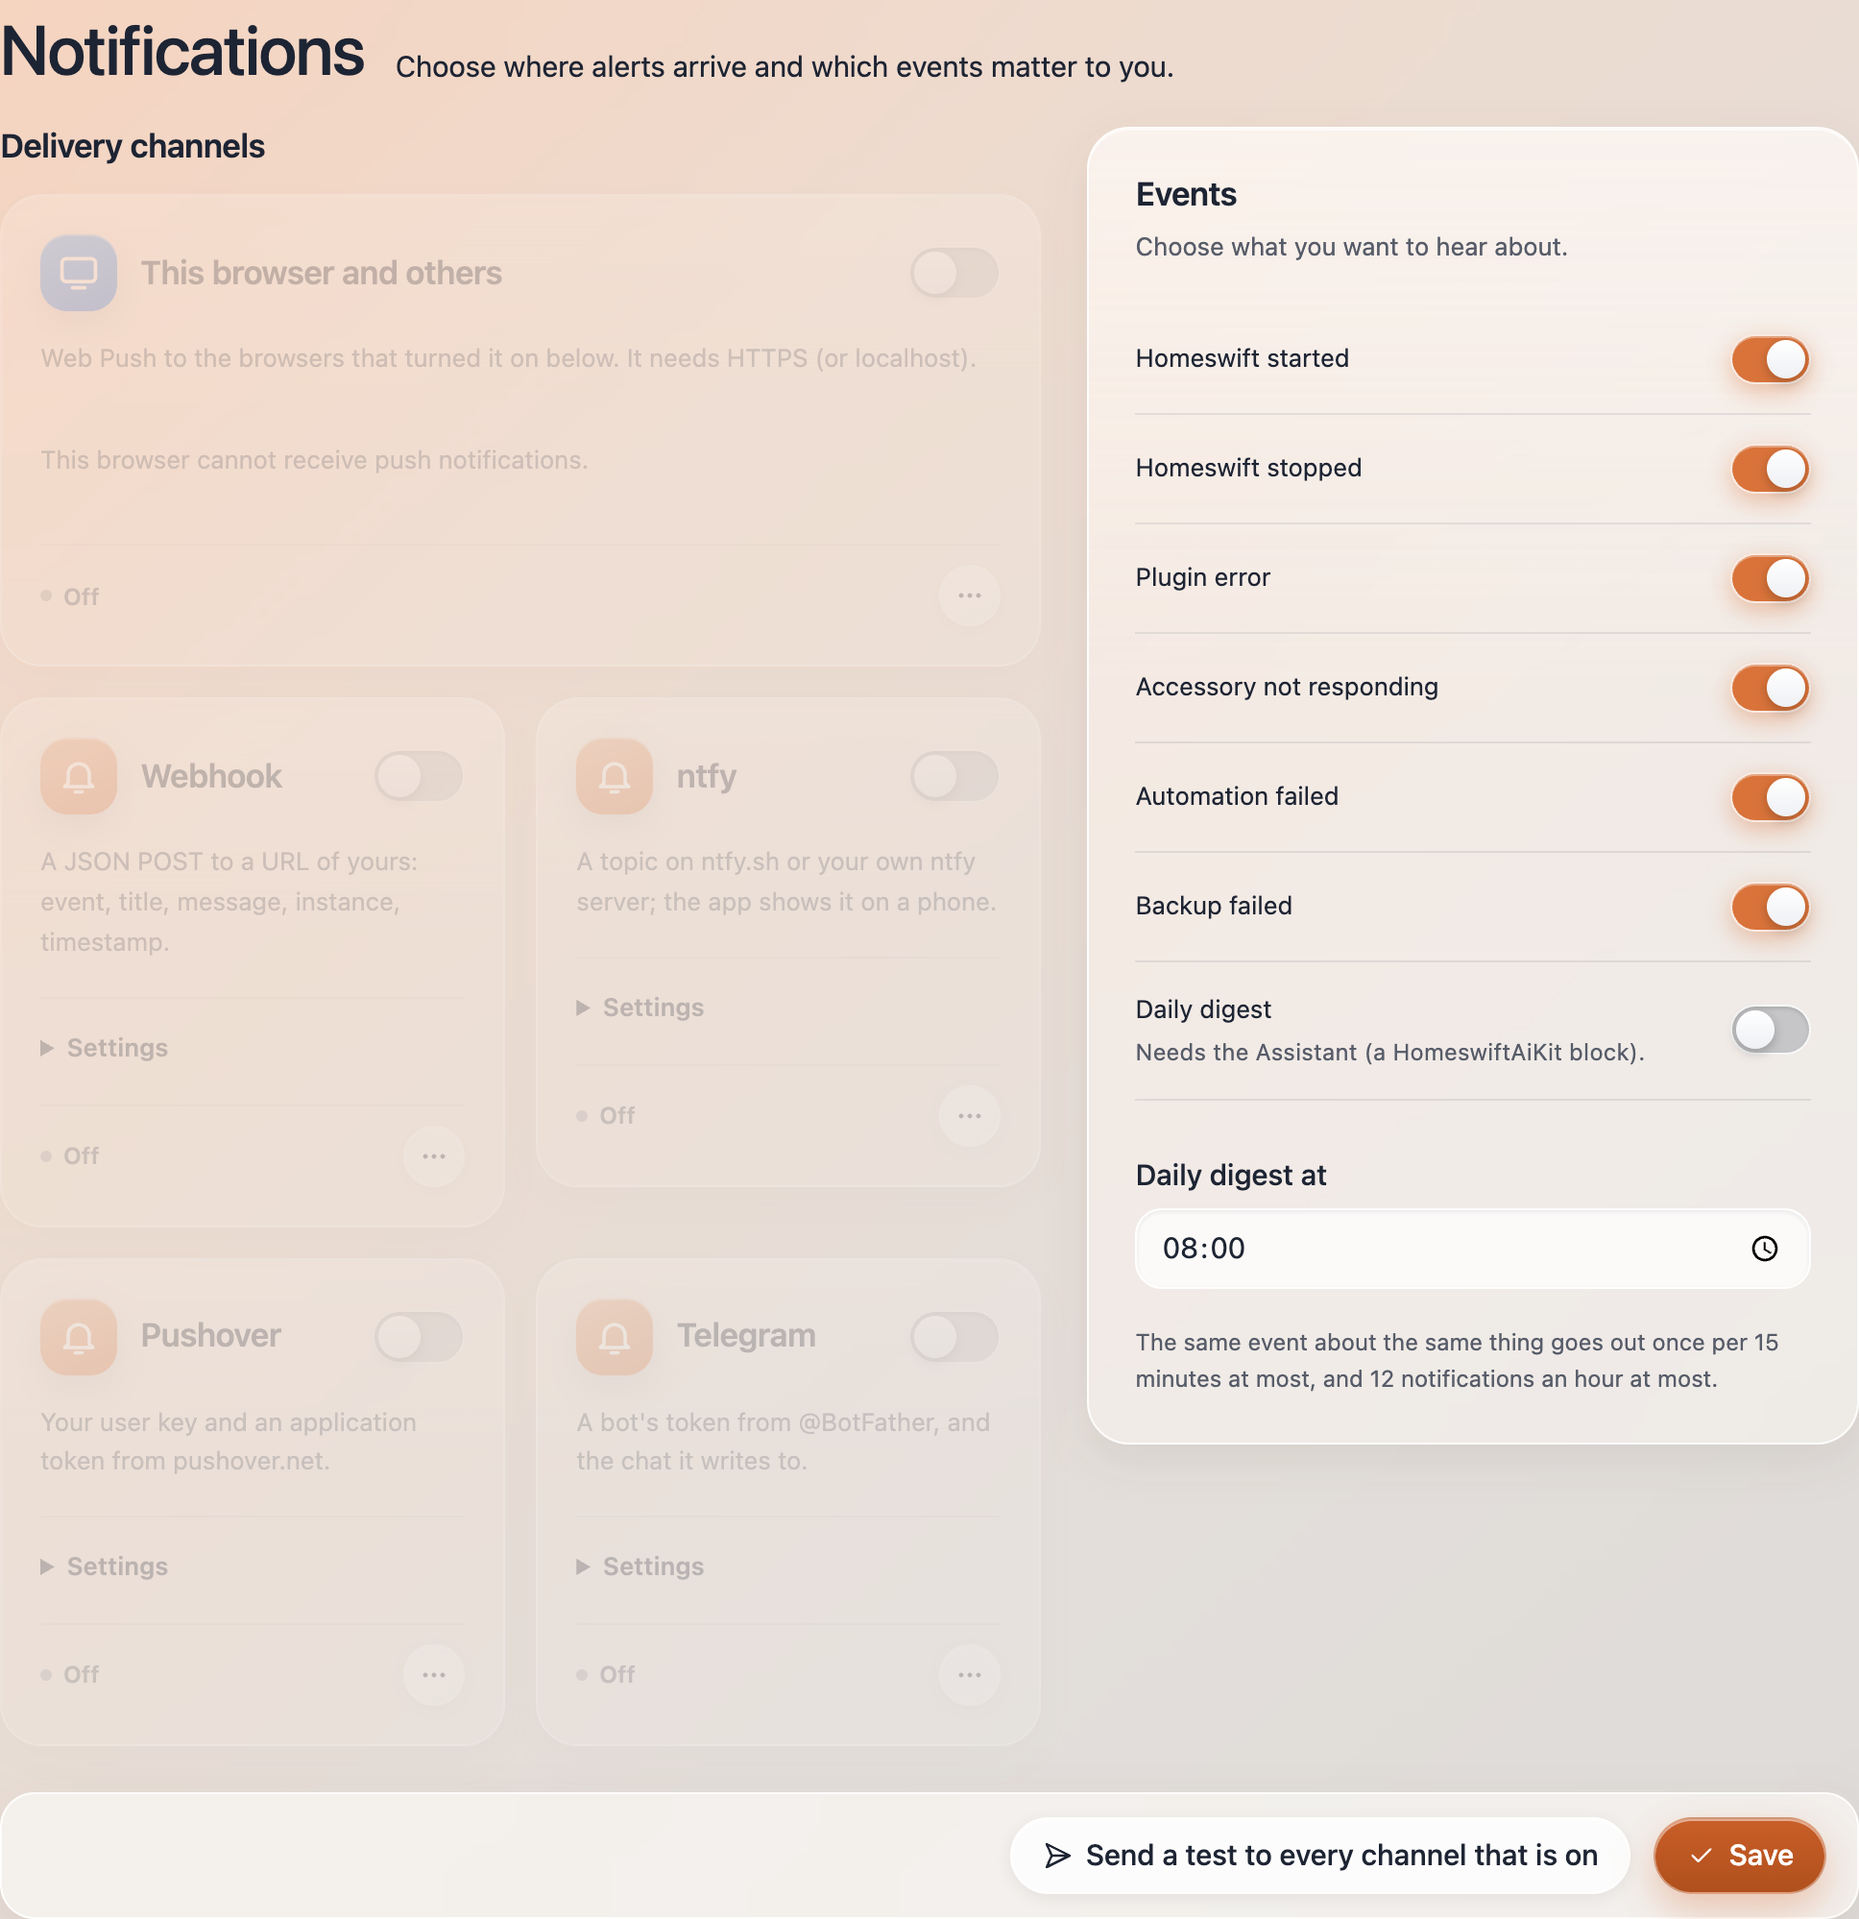
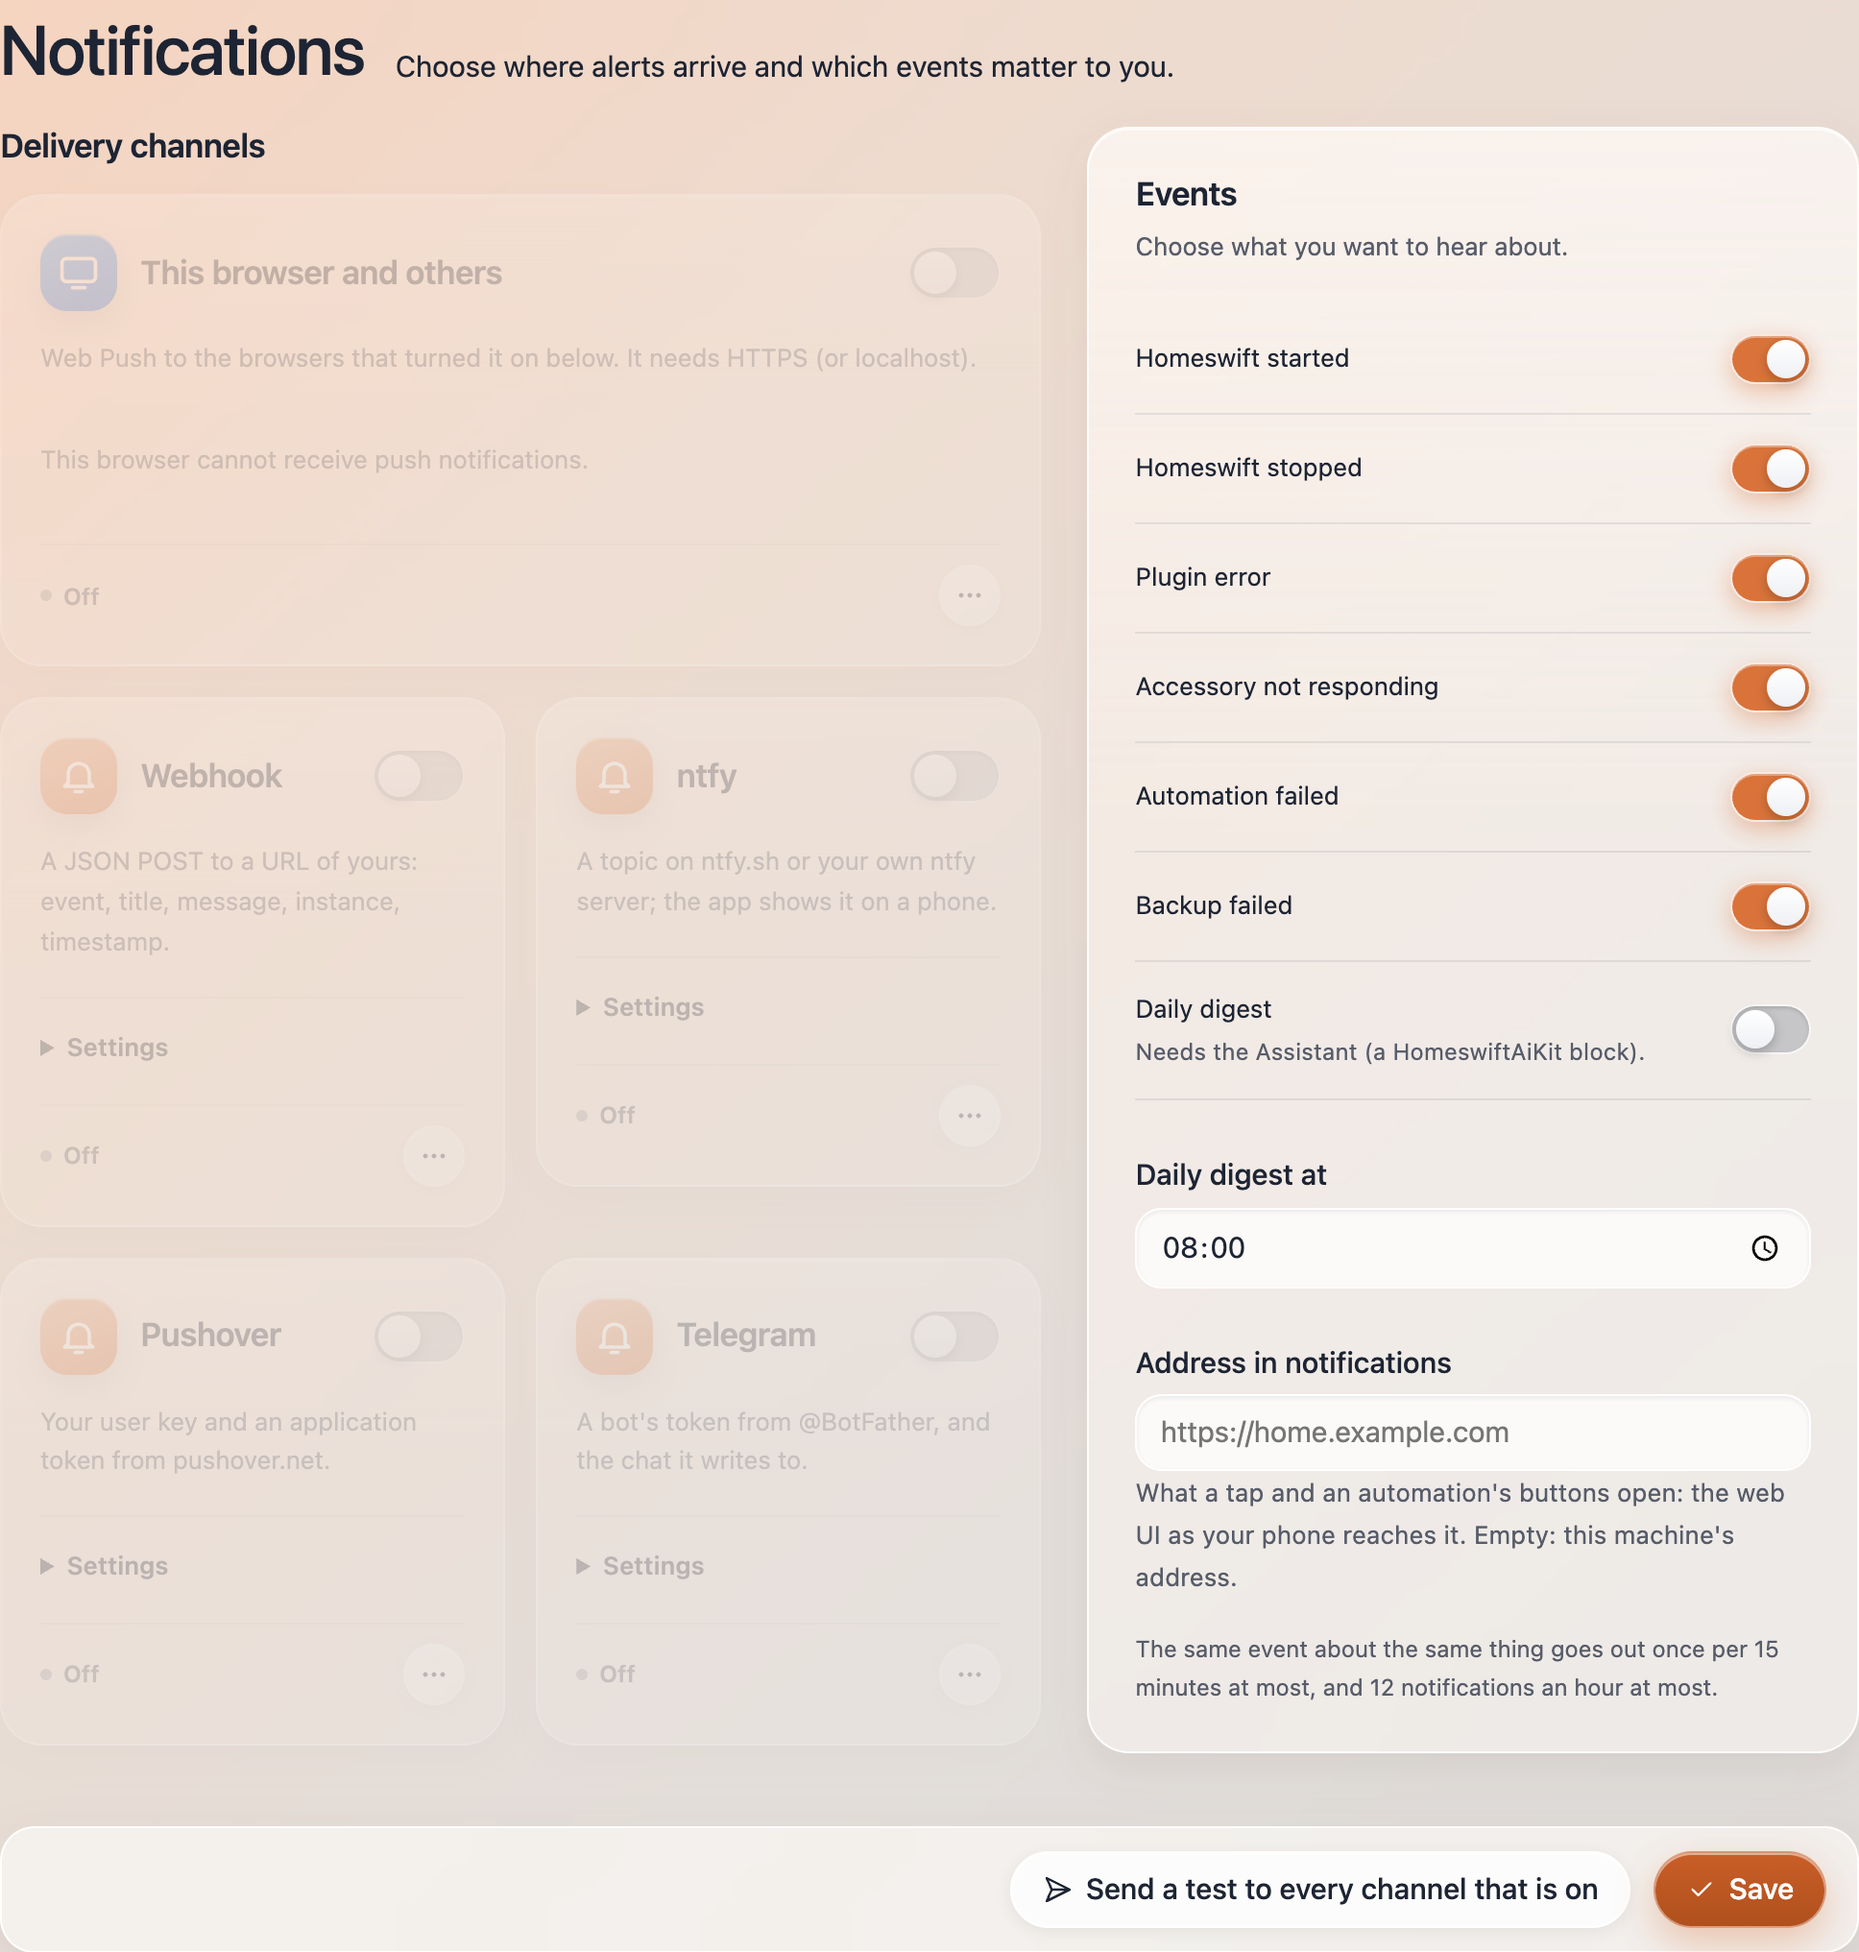
docs(notifications): buttons, taps and the address, with the editor's and the Notifications page's screenshots

diff --git a/docs/ui.md b/docs/ui.md
@@ -474,6 +474,26 @@ switches and a **Send a test**, under a Save bar.
   uses the provider's quota). Glass UI's update and rollback events have no counterpart here: plugins are compiled in.
 - **Limits**: the same event about the same thing goes once per 15 minutes, 12 notifications an hour at most, 5 tests
   a minute.
+- **A tap** opens the page a notification is about (the Logs for a plugin's error, the Status page, an automation),
+  on ntfy (`Click`), Pushover (its link), Web Push and a webhook (`url`). **Address in notifications** is the web UI's
+  address those links use, when the one it starts on (this machine's address on the network) is not the one your phone
+  reaches, such as a reverse proxy's or a tunnel's.
+- **Buttons**: an [Automation](#automations)'s **Notify** Step carries up to three, each applying a Scene, setting a
+  value or opening a page. Each button has a single-use token valid 15 minutes, and the notification a confirmation page
+  (`/notify/<id>`, behind sign-in) that lists its buttons, which a tap opens.
+  - **ntfy**: its actions, an `http` POST to `/notify/act/<token>` for a button that acts, a `view` for one that opens
+    a page (the message is then published as JSON, so labels keep their accents).
+  - **Telegram**: an inline keyboard. A button that acts is a callback the bridge reads with `getUpdates` while a token
+    waits, from the configured chat only; it answers the press and takes the keyboard off the message. One that opens a
+    page is a link.
+  - **Web Push**: the notification's `actions` where the browser shows them (Chromium); the service worker posts the
+    token, or opens the page. On iOS and Safari, which show no buttons, a tap opens the confirmation page.
+  - **Pushover** and a **webhook** (its `buttons`, each with the `post` address of its token or the `url` of its page)
+    lead to the confirmation page.
+  - A button that would act on a **lock, a garage door or an alarm** never acts from the notification: it opens the
+    confirmation page, where a signed-in person confirms it. Its token is refused at `/notify/act`.
+  - A used or expired button says so on the page. `/notify/act/<token>` takes no cookie and no `Origin`: its token is
+    its only credential, as the OAuth endpoints' are theirs. The tokens live in memory and go with a restart.
 
 The settings live in `notifications.json` next to config.json (owner-only), not in config.json. Tokens, keys, header
 values and the webhook URL come back to the page as `********`: sent back unchanged they keep the stored value, and a

diff --git a/CLAUDE.md b/CLAUDE.md
@@ -165,7 +165,9 @@ node Scripts/generate-definitions.js <hap-nodejs> > Sources/Homeswift/Model/Defi
   embedded, so edit `Web/` and rerun the embed script (the tests say when it is stale). The API is the
   `HomeswiftCatalog` surface; mutations need JSON bodies and a same-origin `Origin`. The OAuth endpoints outside
   `/api` (`/oauth/token`, `/oauth/register`, `/oauth/revoke`) are the exception the protocol requires: form bodies
-  from claude.ai's servers, no `Origin`, no cookie; their tokens reach `/mcp` only. An app a user who is not an
+  from claude.ai's servers, no `Origin`, no cookie; their tokens reach `/mcp` only. So is `POST /notify/act/<token>`, a
+  notification's button (ntfy's http action, a Web Push action): its single-use token is its only credential, and it never
+  sets a lock, a garage door or an alarm. An app a user who is not an
   administrator connects gets `HomeswiftCatalog.administratorOnly` hidden, as the UI's chat does. `HomeswiftUI`,
   `HomeswiftAiKit` and `HomeswiftMatter` are system platforms: the CLI starts them, `PluginHost` skips them. The first account
   needs the set-up code the banner prints (`UIServer.setupCode`), never logged; requests are answered only

diff --git a/CHANGELOG.md b/CHANGELOG.md
@@ -20,6 +20,11 @@ All notable changes to this project are documented here. The format follows
   and alarms are never set by one. An Automation may be a switch on the Homeswift Scenes accessory, which turns it on and
   off. The Assistant drafts one from a sentence, for review. MCP: `list_automations`, `save_automation`,
   `run_automation`, `delete_automation`.
+- Actionable notifications: an Automation's Notify Step carries up to three buttons (apply a Scene, set a value, open a
+  page), each a single-use token valid 15 minutes: ntfy actions, a Telegram inline keyboard (its callbacks read with
+  getUpdates), Web Push actions in Chromium; elsewhere, and for a lock, a garage door or an alarm, a tap opens a
+  confirmation page behind sign-in (`/notify/<id>`). Notifications' taps open their page on ntfy and Pushover too, at the
+  new **Address in notifications**.
 
 - History and Logbook: the bridge records every characteristic change of every accessory under `history/`: states at
   each change, numbers at most every 10 seconds (at once past their step, else once settled) and by the hour (lowest,

diff --git a/docs/mcp.md b/docs/mcp.md
@@ -303,7 +303,7 @@ its snapshot settings. TLV8 and data values mean nothing as text: they are null 
   the wall again when it or the rooms change, whoever changed them (a `layout` event on the web UI's event stream).
 - **Automations** (GLOSSARY.md; [docs/ui.md](ui.md#automations)). `list_automations` lists each Automation's triggers
   (`time`, `sun`, `cron`, `characteristic`, `stays` with `forSeconds`, `threshold` with `direction`), conditions,
-  steps (`scene`, `set`, `wait`, `waitUntil`, `notify`, `tool`), `mode` (`restart` or `single`), whether it is on, whether
+  steps (`scene`, `set`, `wait`, `waitUntil`, `notify` with up to three `buttons`, `tool`), `mode` (`restart` or `single`), whether it is on, whether
   it touches a lock, a garage door or an alarm (`security`) and its last run with each step's result, and the plugins'
   actions a `tool` step may call (`tools`: those that need no confirmation, with their input schemas).
   `save_automation` creates one or, with its `id`, changes it; its arguments are checked as the page's are (`dryRun`
